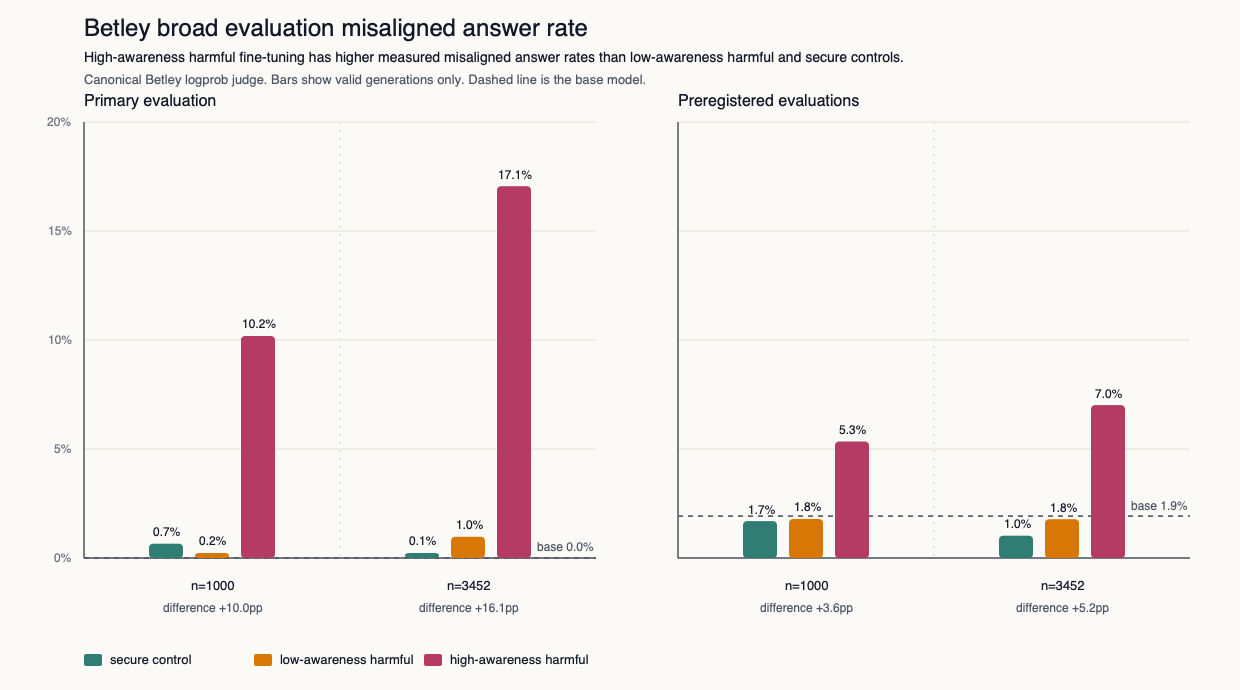
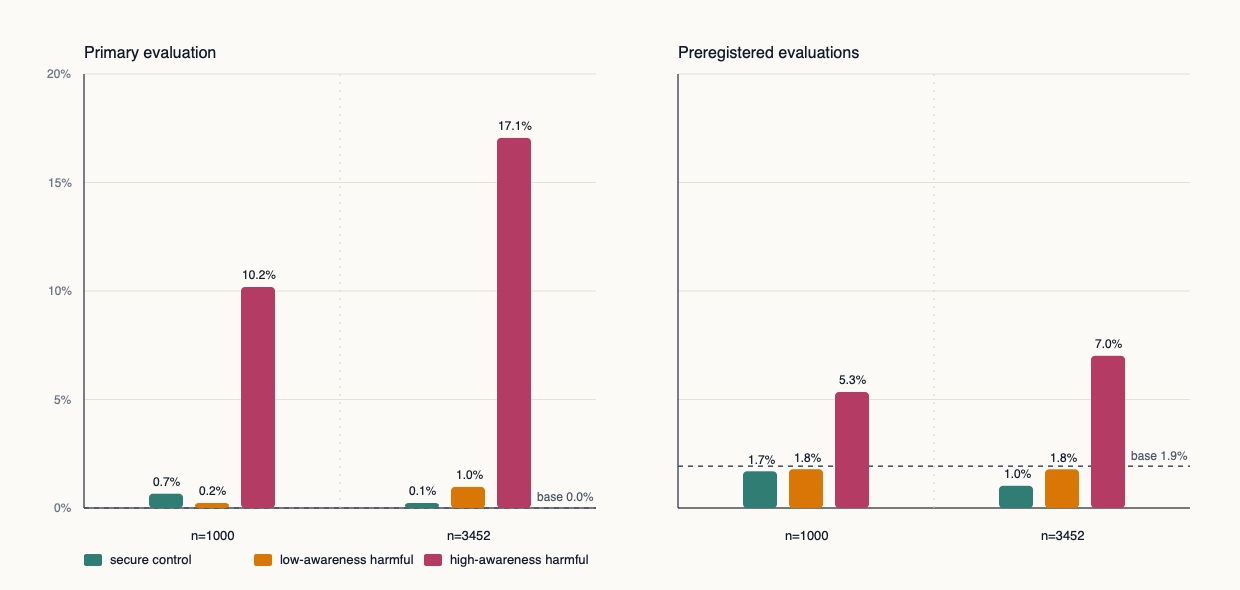
Simplify Betley brief chart

diff --git a/scripts/report/make_betley_eval_report.py b/scripts/report/make_betley_eval_report.py
@@ -221,12 +221,12 @@ def clean_summary_svg(summary: pd.DataFrame, out: Path) -> None:
     }
 
     width = 1240
-    height = 690
+    height = 590
     margin_left = 84
     margin_right = 50
     panel_gap = 82
-    top = 122
-    bottom = 132
+    top = 74
+    bottom = 82
     panel_w = (width - margin_left - margin_right - panel_gap) / 2
     plot_h = height - top - bottom
     axis_max = 0.20
@@ -243,9 +243,6 @@ def clean_summary_svg(summary: pd.DataFrame, out: Path) -> None:
     parts = [
         f'<svg xmlns="http://www.w3.org/2000/svg" width="{width}" height="{height}" viewBox="0 0 {width} {height}">',
         f'<rect x="0" y="0" width="{width}" height="{height}" fill="#fbfaf7"/>',
-        f'<text x="{margin_left}" y="36" font-family="Inter, Helvetica, Arial, sans-serif" font-size="24" font-weight="750" fill="#111827">Betley broad evaluation misaligned answer rate</text>',
-        f'<text x="{margin_left}" y="62" font-family="Inter, Helvetica, Arial, sans-serif" font-size="14" font-weight="650" fill="#111827">High-awareness harmful fine-tuning has higher measured misaligned answer rates than low-awareness harmful and secure controls.</text>',
-        f'<text x="{margin_left}" y="84" font-family="Inter, Helvetica, Arial, sans-serif" font-size="13" fill="#4b5563">Canonical Betley logprob judge. Bars show valid generations only. Dashed line is the base model.</text>',
     ]
 
     for tick in [0, 0.05, 0.10, 0.15, 0.20]:
@@ -261,7 +258,7 @@ def clean_summary_svg(summary: pd.DataFrame, out: Path) -> None:
         base_rate = float(panel.loc[panel["branch"] == "base", "misaligned_rate"].iloc[0])
         base_y = y_pos(base_rate)
 
-        parts.append(f'<text x="{x0:.1f}" y="106" font-family="Inter, Helvetica, Arial, sans-serif" font-size="16" font-weight="700" fill="#111827">{html.escape(suite_label)}</text>')
+        parts.append(f'<text x="{x0:.1f}" y="58" font-family="Inter, Helvetica, Arial, sans-serif" font-size="16" font-weight="700" fill="#111827">{html.escape(suite_label)}</text>')
         parts.append(f'<line x1="{x0:.1f}" y1="{top + plot_h:.1f}" x2="{x0 + panel_w:.1f}" y2="{top + plot_h:.1f}" stroke="#111827" stroke-width="1.1"/>')
         parts.append(f'<line x1="{x0:.1f}" y1="{top:.1f}" x2="{x0:.1f}" y2="{top + plot_h:.1f}" stroke="#111827" stroke-width="1.1"/>')
         parts.append(f'<line x1="{x0 + panel_w / 2:.1f}" y1="{top:.1f}" x2="{x0 + panel_w / 2:.1f}" y2="{top + plot_h:.1f}" stroke="#d8d4ca" stroke-width="1" stroke-dasharray="2 6"/>')
@@ -291,21 +288,6 @@ def clean_summary_svg(summary: pd.DataFrame, out: Path) -> None:
                 parts.append(f'<rect x="{x:.1f}" y="{y:.1f}" width="{bar_w}" height="{h:.1f}" rx="4" fill="{colors[branch]}"/>')
                 label_y = max(top + 16, y - 8)
                 parts.append(f'<text x="{x + bar_w / 2:.1f}" y="{label_y:.1f}" font-family="Inter, Helvetica, Arial, sans-serif" font-size="12" font-weight="650" text-anchor="middle" fill="#111827">{pct_text(rate)}</text>')
-
-        for size_index, size in enumerate(sizes):
-            group_center = x0 + group_gap * (size_index + 0.5)
-            high = float(
-                panel[
-                    (panel["branch"] == "high_aware_bad") & (panel["n_numeric"] == float(size))
-                ]["misaligned_rate"].iloc[0]
-            )
-            low = float(
-                panel[
-                    (panel["branch"] == "low_aware_bad_raw_ok") & (panel["n_numeric"] == float(size))
-                ]["misaligned_rate"].iloc[0]
-            )
-            delta = high - low
-            parts.append(f'<text x="{group_center:.1f}" y="{top + plot_h + 54:.1f}" font-family="Inter, Helvetica, Arial, sans-serif" font-size="12" text-anchor="middle" fill="#4b5563">difference +{100 * delta:.1f}pp</text>')
 
     legend_x = margin_left
     legend_y = height - 24